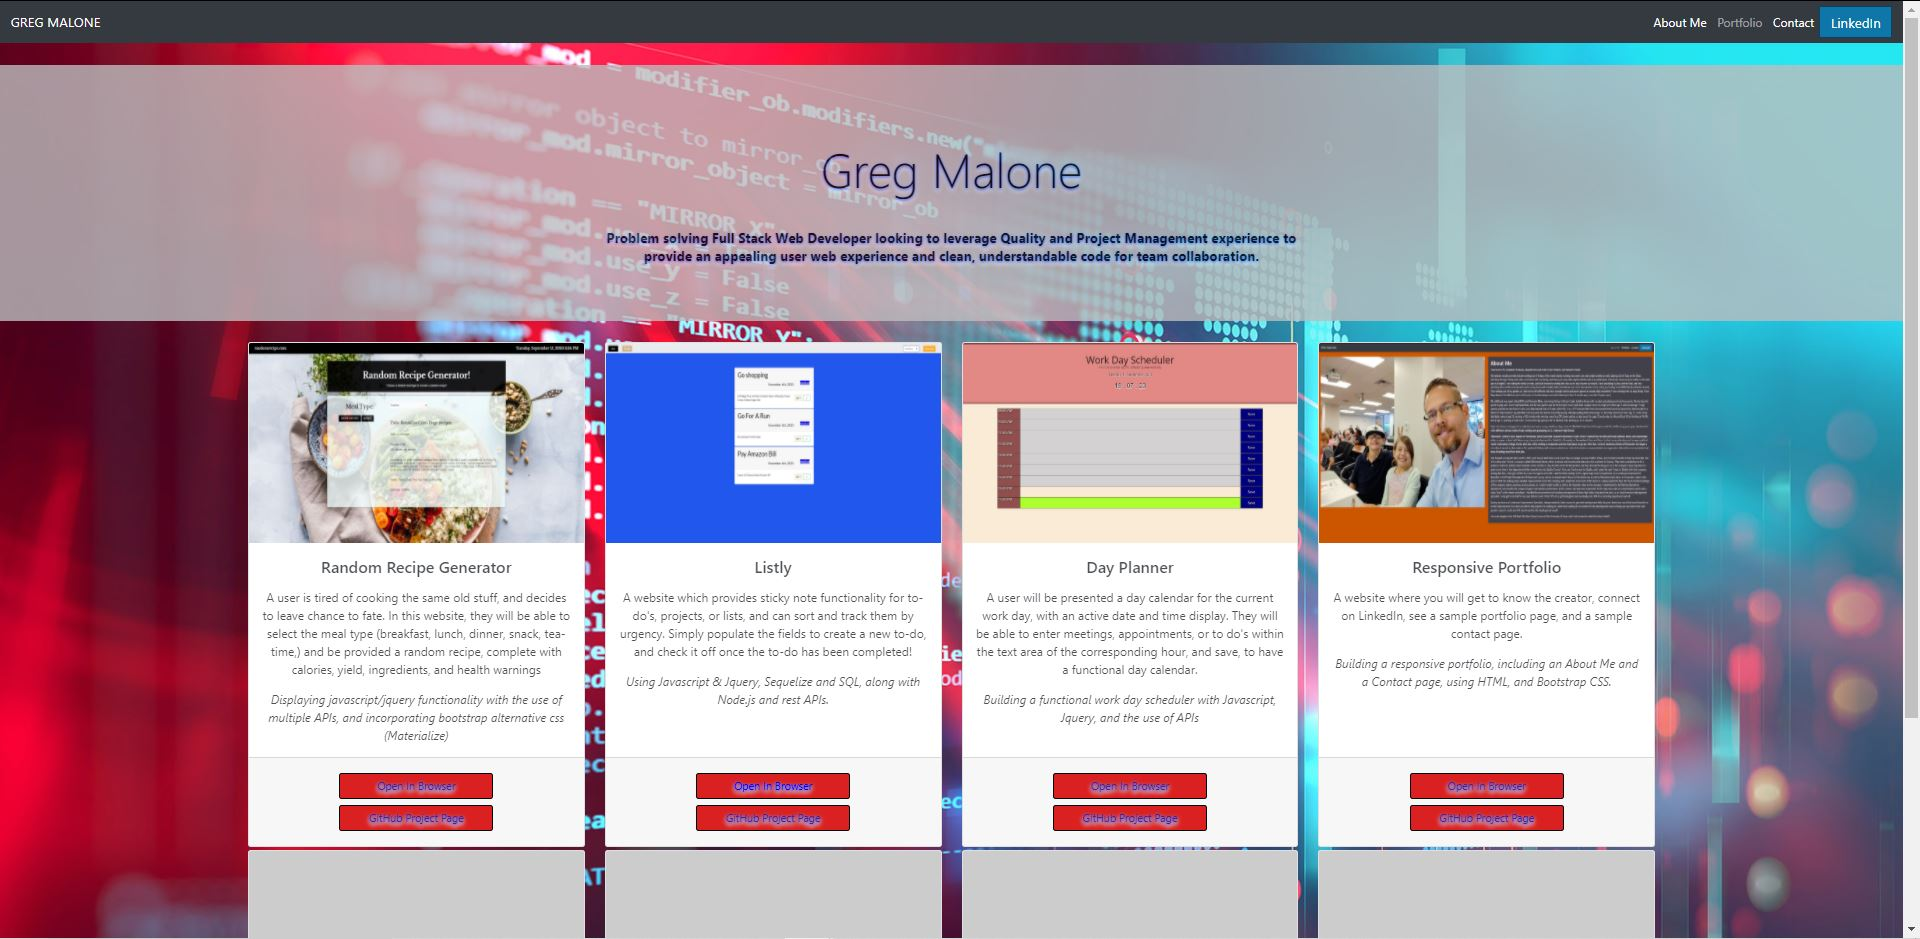
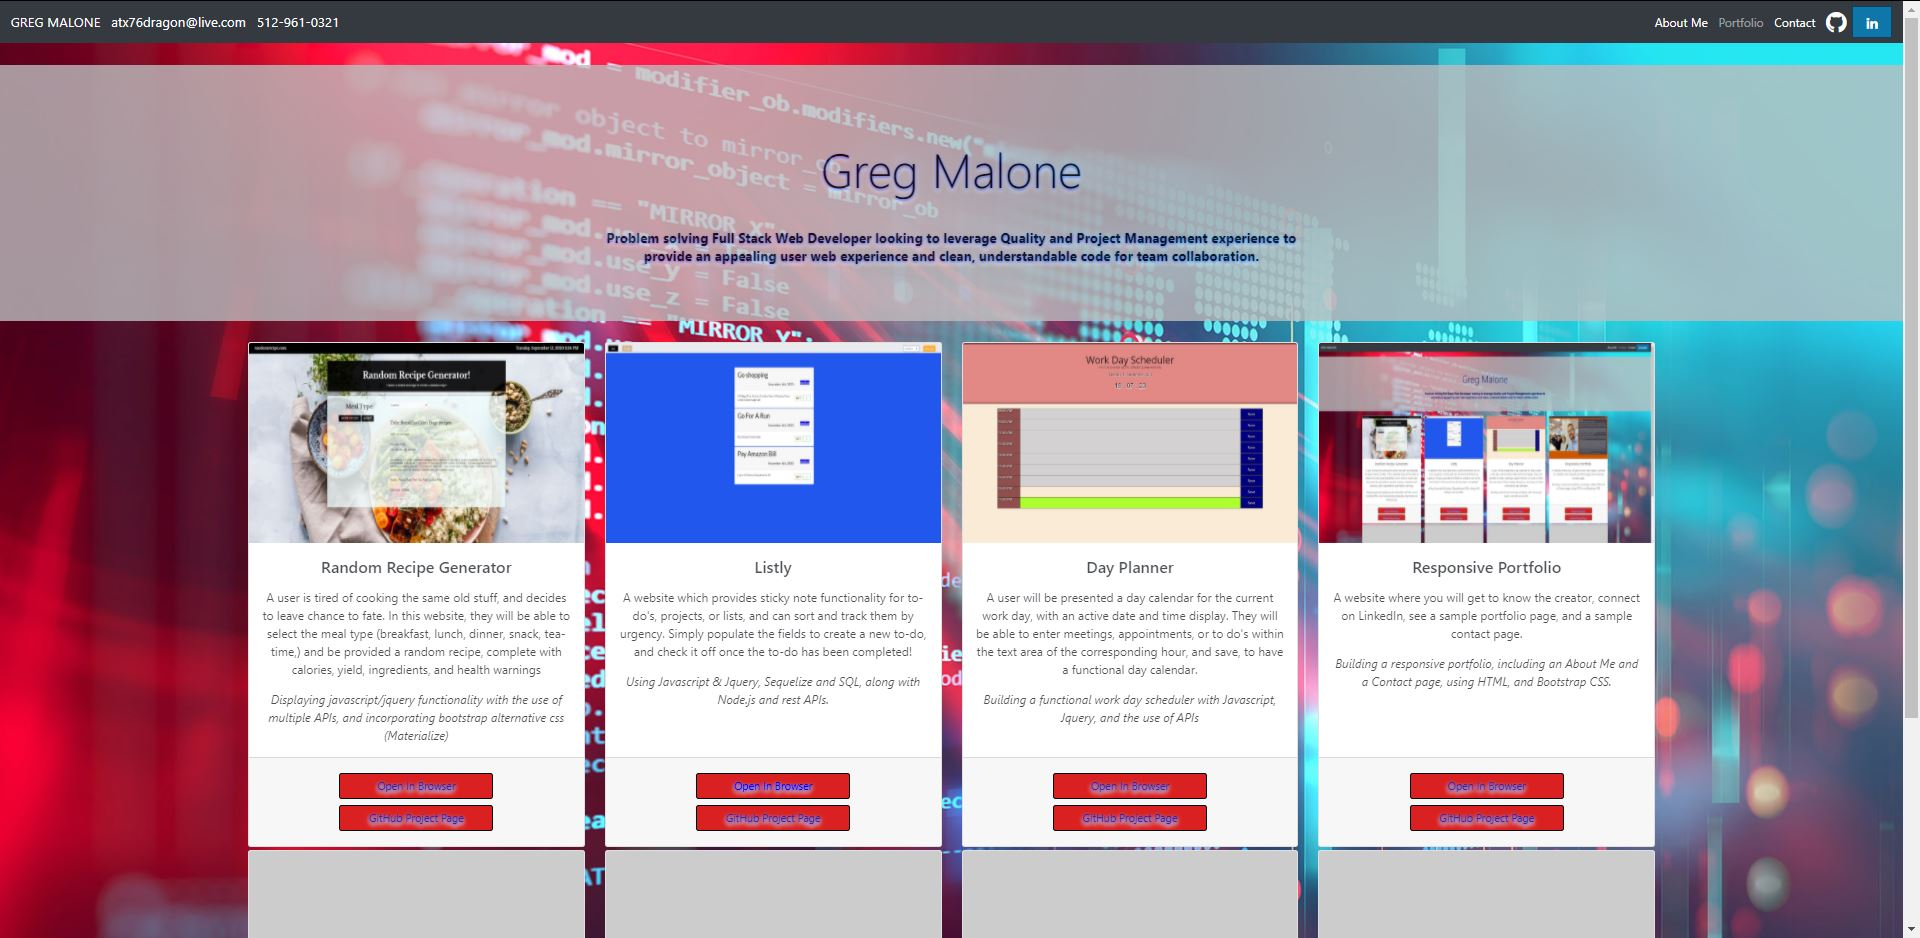
Added background image to About Me and Contact Me pages, updated styling to fit content to page.

diff --git a/index.html b/index.html
@@ -11,13 +11,16 @@
     
         <!-- This is my Bootstrap Link -->
         <link rel="stylesheet" href="https://stackpath.bootstrapcdn.com/bootstrap/4.5.0/css/bootstrap.min.css" integrity="sha384-9aIt2nRpC12Uk9gS9baDl411NQApFmC26EwAOH8WgZl5MYYxFfc+NcPb1dKGj7Sk" crossorigin="anonymous">
-        
+        <link rel="stylesheet" href="https://cdnjs.cloudflare.com/ajax/libs/font-awesome/4.7.0/css/font-awesome.min.css">        
+
         <!-- This is my css stylesheet link -->
         <link rel="stylesheet" type="text/css" href="Assets/CSS/AboutMe_style.css">
     
         <!-- This is my navigation bar, and Title, toggle, and area controls at the top of the page -->
         <nav class="navbar navbar-expand-lg navbar-dark bg-dark fixed-top">
                 <a class="navbar-brand" href="#">GREG MALONE</a>
+                <a class="navbar-brand" href="atx76dragon@live.com">atx76dragon@live.com</a>
+                <a class="navbar-brand" href="#">512-961-0321</a>
                 
                 <!-- This is my link section to About Me, Portfolio, and Contact -->
                 <button class="navbar-toggler" type="button" data-toggle="collapse" data-target="#navbarResponsive" aria-controls="navbarResponsive" aria-expanded="false" aria-label="Toggle navigation">
@@ -44,7 +47,8 @@
                         </li>
                     </ul>
                 </div>
-                <a href="https://www.linkedin.com/in/gregory-malone" title="LinkedIn" class="btn btn-linkedin btn-lg"><i class="fa fa-linkedin fa-fw"></i> LinkedIn</a>
+                <a class="fa fa-github" href="https://github.com/TEXWRECKS" style="font-size:36px;color:white"></a>
+                <a href="https://www.linkedin.com/in/gregory-malone" title="LinkedIn" class="btn btn-linkedin btn-lg"><i class="fa fa-linkedin fa-fw"></i></a>
 
         <!-- This ends my Navigation Bar -->
         </nav>
@@ -83,13 +87,7 @@
                                     <img src="Assets/Chicago.jpg" class="d-block w-100" alt="Chicago">
                                 </div>
                                 <div class="carousel-item">
-                                    <img src="Assets/Color Festival.jpg" class="d-block w-100" alt="Color Festival">
-                                </div>
-                                <div class="carousel-item">
                                     <img src="Assets/Colorado.jpg" class="d-block w-100" alt="Colorado National Monument">
-                                </div>
-                                <div class="carousel-item">
-                                    <img src="Assets/Dance.jpg" class="d-block w-100" alt="Dance Recital">
                                 </div>
                                 <div class="carousel-item">
                                     <img src="Assets/Date Night.jpg" class="d-block w-100" alt="Date Night">
@@ -101,40 +99,13 @@
                                     <img src="Assets/Greg and Alex.jpg" class="d-block w-100" alt="My Son">
                                 </div>
                                 <div class="carousel-item">
-                                    <img src="Assets/Halloween.jpg" class="d-block w-100" alt="Halloween">
-                                </div>
-                                <div class="carousel-item">
                                     <img src="Assets/Heat.jpg" class="d-block w-100" alt="Longhorn Cavern State Park">
                                 </div>
                                 <div class="carousel-item">
                                     <img src="Assets/Ice Cream.jpg" class="d-block w-100" alt="Fredericksburg">
                                 </div>
                                 <div class="carousel-item">
-                                    <img src="Assets/Lake LBJ.jpg" class="d-block w-100" alt="Lake LBJ">
-                                </div>
-                                <div class="carousel-item">
-                                    <img src="Assets/Night Lights.jpg" class="d-block w-100" alt="Summer Nights">
-                                </div>
-                                <div class="carousel-item">
-                                    <img src="Assets/Night Runs.jpg" class="d-block w-100" alt="Love My Night Runs">
-                                </div>
-                                <div class="carousel-item">
-                                    <img src="Assets/Polo Club.jpg" class="d-block w-100" alt="Young Love">
-                                </div>
-                                <div class="carousel-item">
-                                    <img src="Assets/School.jpg" class="d-block w-100" alt="First Day at Middle School">
-                                </div>
-                                <div class="carousel-item">
-                                    <img src="Assets/Still.jpg" class="d-block w-100" alt="Still Austin Whiskey Distillery">
-                                </div>
-                                <div class="carousel-item">
-                                    <img src="Assets/Sunlight.jpg   " class="d-block w-100" alt="Sunlight">
-                                </div>
-                                <div class="carousel-item">
                                     <img src="Assets/View.jpg" class="d-block w-100" alt="Inks Lake State Park">
-                                </div>
-                                <div class="carousel-item">
-                                    <img src="Assets/West Baden.jpg" class="d-block w-100" alt="West Baden Hotel">
                                 </div>
                         
                             <!-- ends carousel-inner -->

diff --git a/Portfolio.html b/Portfolio.html
@@ -11,6 +11,7 @@
         
         <!-- This is my Bootstrap Link -->
         <link rel="stylesheet" href="https://stackpath.bootstrapcdn.com/bootstrap/4.5.0/css/bootstrap.min.css" integrity="sha384-9aIt2nRpC12Uk9gS9baDl411NQApFmC26EwAOH8WgZl5MYYxFfc+NcPb1dKGj7Sk" crossorigin="anonymous">
+        <link rel="stylesheet" href="https://cdnjs.cloudflare.com/ajax/libs/font-awesome/4.7.0/css/font-awesome.min.css">
         
         <!-- This is my css stylesheet link -->
         <link rel="stylesheet" type="text/css" href="Assets/CSS/Portfolio_style.css">
@@ -18,6 +19,8 @@
     <!-- This is my navigation bar, and Title, toggle, and area controls at the top of the page -->
     <nav class="navbar navbar-expand-lg navbar-dark bg-dark fixed-top">
             <a class="navbar-brand" href="#">GREG MALONE</a>
+            <a class="navbar-brand" href="atx76dragon@live.com">atx76dragon@live.com</a>
+            <a class="navbar-brand" href="#">512-961-0321</a>
             
             <!-- This is my link section to About Me, Portfolio, and Contact -->
             <button class="navbar-toggler" type="button" data-toggle="collapse" data-target="#navbarResponsive" aria-controls="navbarResponsive" aria-expanded="false" aria-label="Toggle navigation">
@@ -43,8 +46,10 @@
                         <a class="nav-link" href="Contact.html">Contact</a>
                     </li>
                 </ul>
+
+                <a href="https://github.com/TEXWRECKS" title="GitHub" class="fa fa-github" style="font-size:36px;color:white"></a>
+                <a href="https://www.linkedin.com/in/gregory-malone" title="LinkedIn" class="btn btn-linkedin btn-lg"><i class="fa fa-linkedin fa-fw"></i></a>
             </div>
-            <a href="https://www.linkedin.com/in/gregory-malone" title="LinkedIn" class="btn btn-linkedin btn-lg"><i class="fa fa-linkedin fa-fw"></i> LinkedIn</a>
 
     <!-- This ends my Navigation Bar -->
     </nav>

diff --git a/Contact.html b/Contact.html
@@ -11,6 +11,7 @@
 
         <!-- This is my Bootstrap Link -->
         <link rel="stylesheet" href="https://stackpath.bootstrapcdn.com/bootstrap/4.5.0/css/bootstrap.min.css" integrity="sha384-9aIt2nRpC12Uk9gS9baDl411NQApFmC26EwAOH8WgZl5MYYxFfc+NcPb1dKGj7Sk" crossorigin="anonymous">
+        <link rel="stylesheet" href="https://cdnjs.cloudflare.com/ajax/libs/font-awesome/4.7.0/css/font-awesome.min.css">
         
         <!-- This is my css stylesheet link -->
         <link rel="stylesheet" type="text/css" href="Assets/CSS/Contact_style.css">
@@ -18,6 +19,8 @@
     <!-- This is my navigation bar, and Title, toggle, and area controls at the top of the page -->
     <nav class="navbar navbar-expand-lg navbar-dark bg-dark fixed-top">
             <a class="navbar-brand" href="#">GREG MALONE</a>
+            <a class="navbar-brand" href="atx76dragon@live.com">atx76dragon@live.com</a>
+            <a class="navbar-brand" href="#">512-961-0321</a>
             
             <!-- This is my link section to About Me, Portfolio, and Contact -->
             <button class="navbar-toggler" type="button" data-toggle="collapse" data-target="#navbarResponsive" aria-controls="navbarResponsive" aria-expanded="false" aria-label="Toggle navigation">
@@ -45,7 +48,8 @@
                     </li>
                 </ul>
             </div>
-            <a href="https://www.linkedin.com/in/gregory-malone" title="LinkedIn" class="btn btn-linkedin btn-lg"><i class="fa fa-linkedin fa-fw"></i> LinkedIn</a>
+            <a class="fa fa-github" href="https://github.com/TEXWRECKS" style="font-size:36px;color:white"></a>
+            <a href="https://www.linkedin.com/in/gregory-malone" title="LinkedIn" class="btn btn-linkedin btn-lg"><i class="fa fa-linkedin fa-fw"></i></a>
             
         </div>
 

diff --git a/Assets/CSS/Contact_style.css b/Assets/CSS/Contact_style.css
@@ -10,36 +10,44 @@ html {
   margin: 40px auto;
   text-align: center;
 }
-  .btn-linkedin {
-    background: #0E76A8;
-    border-radius: 0;
-    color: #fff;
-    border-width: 1px;
-    border-style: solid;
-    border-color: #084461;
-  }
-  .btn-linkedin:link, .btn-linkedin:visited {
-    color: #fff;
-  }
-  .btn-linkedin:active, .btn-linkedin:hover {
-    background: #084461;
-    color: #fff;
-  }
-    
+
+.fa-github {
+  padding-left: 8px;
+  padding-right: 8px;
+}
+
+.btn-linkedin {
+  background: #0E76A8;
+  border-radius: 0;
+  color: #fff;
+  border-width: 1px;
+  border-style: solid;
+  border-color: #084461;
+}
+.btn-linkedin:link, .btn-linkedin:visited {
+  color: #fff;
+}
+  
+.btn-linkedin:active, .btn-linkedin:hover {
+  background: #084461;
+  color: #fff;
+}
+
+body, html {
+  height: 100%;
+}
+
 body {
     /* Typography */
-      margin-top: 56px;
-      border-top-width: 400px;
-      border-left-width: 400px;
-      border-bottom-width: 400px;
-      border-right-width: 400px;
-      border: 3px solid black;
-      padding-top: 20px;
-      font-size: 18px;
-      line-height: 27px;
-    
-      /* Visual */
-      background-color: #cc5500;
+    margin: 0;
+    padding: 0;
+    font-size: 18px;
+    line-height: 27px;
+
+    background-image: url(contact.jpg);
+    background-size: cover;
+    padding-top: 56px;
+    overflow: hidden;
   }
 
   .masthead {
@@ -82,8 +90,12 @@ body {
 }
 
 #contact {
-  color: #cc5500;
-  background: rgb(65, 64, 75);
+  margin: auto;
+  width: 50%;
+  color: rgb(65, 64, 75);
+  border: 3px solid #555;
+  background: white;
+  opacity: 0.8;
 }
 
 :root {

diff --git a/Assets/CSS/AboutMe_style.css b/Assets/CSS/AboutMe_style.css
@@ -10,6 +10,12 @@ html {
   margin: 40px auto;
   text-align: center;
   }
+
+  .fa-github {
+    padding-left: 8px;
+    padding-right: 8px;
+  }
+
   .btn-linkedin {
     background: #0E76A8;
     border-radius: 0;
@@ -26,30 +32,29 @@ html {
     color: #fff;
   }
 
+body, html {
+  height: 100%;
+}
+
 body {
   /* Typography */
-    margin-top: 56px;
+    margin: 0;
+    padding: 0;
     font-size: 18px;
     line-height: 27px;
   
     /* Visual */
-    background-color: #cc5500;
+    background-image: url(Trail2.jpg);
+    background-size: cover;
+    padding-top: 56px;
+    overflow: hidden;
 }
-  
-  /*
-    The width of the wrapper will be 1024px
-    at browser widths above 768px
-  */
- 
 
   .container-fluid {
     
     /* Box-model */
     width: 100%;
-    height: 500px;
-  
-    /* Positioning */
-    margin-top: 40px auto;
+    /* height: 500px; */
   }
   
   #Carousel,
@@ -57,17 +62,18 @@ body {
     /* Box-model */
     width: 100%;
   }
-  
-  #Carousel {   
-    block-size: auto;
-    background: rgb(65, 64, 75);
+
+  div.img {
+    border: 3px solid #555;
+    height: 100%;
   }
   
   #About_Me {
-    block-size: auto;
-    background: rgb(65, 64, 75);
-    color: #fff;
-    padding: 20px;
+    background: white;
+    color: rgb(65, 64, 75);
+    opacity: 0.8;
+    height: 800px;
+    overflow: scroll;
   }
 
  

diff --git a/Assets/CSS/Portfolio_style.css b/Assets/CSS/Portfolio_style.css
@@ -6,11 +6,17 @@ nav {
   display: block;
 }
 
-/* LinkedIn Button */
+/* LinkedIn and GitHub buttons */
 html {
 margin: 40px auto;
 text-align: center;
 }
+
+.fa-github {
+  padding-left: 8px;
+  padding-right: 8px;
+}
+
 .btn-linkedin {
   background: #0E76A8;
   border-radius: 0;
